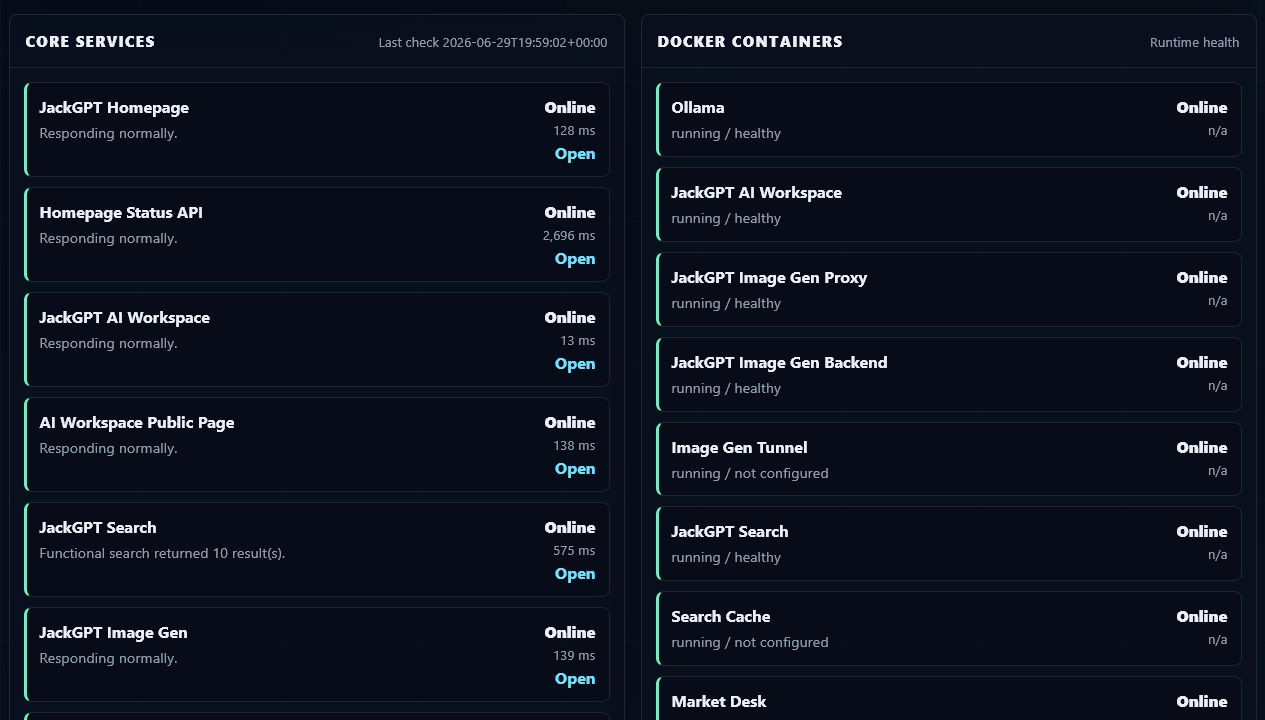
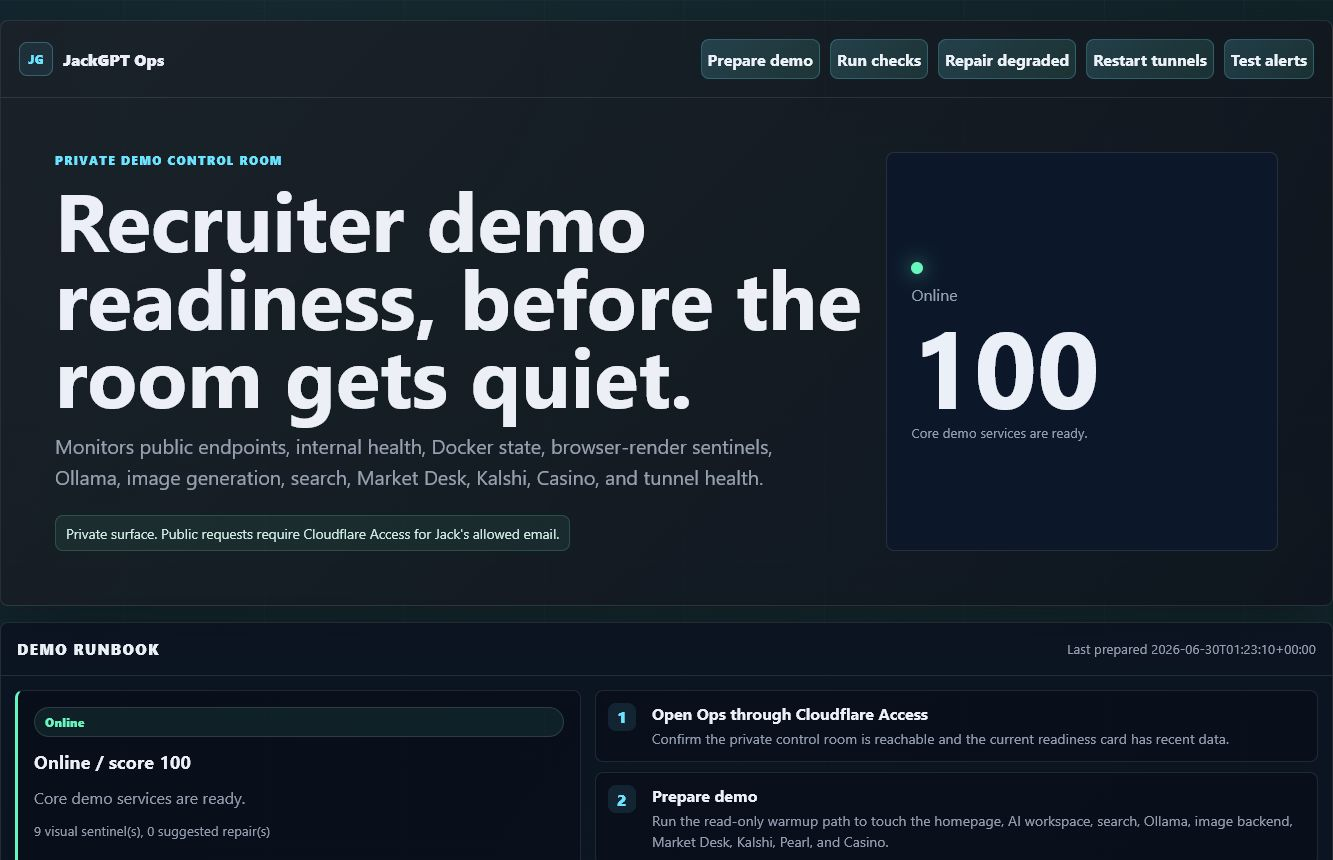
Expand Ops Control Room case study

diff --git a/src/App.jsx b/src/App.jsx
@@ -292,23 +292,26 @@ const projects = [
   {
     id: "ops-control-room",
     name: "JackGPT Ops Control Room",
-    subtitle: "Private demo-readiness monitor with alerts and safe auto-repair",
+    subtitle: "Private demo-readiness, incident memory, alerts, and safe repair controls",
     icon: Activity,
     accent: "blue",
-    tags: ["Monitoring", "Auto-repair", "Docker", "Cloudflare Access", "Alerts", "Browser QA"],
+    tags: ["Monitoring", "Runbooks", "Auto-repair", "Docker", "Cloudflare Access", "Browser QA"],
     summary:
-      "A private operations dashboard that monitors the JackGPT ecosystem, runs browser-render checks, sends alerts, and repairs predictable service failures before a recruiter demo goes sideways.",
+      "A private operations dashboard that monitors the JackGPT ecosystem, warms demo paths, maps dependencies, remembers recurring incidents, sends alerts, and repairs predictable service failures before a recruiter demo goes sideways.",
     description:
-      "JackGPT Ops Control Room is the private reliability layer behind the public portfolio. It watches public URLs, internal health endpoints, Docker containers, Cloudflare tunnels, host-side bot agents, search/image/AI dependencies, and browser-render screenshots. It is intentionally gated behind Cloudflare Access and shown publicly only as a case study, because the live control surface can restart services and coordinate host-side repair actions.",
+      "JackGPT Ops Control Room is the private reliability layer behind the public portfolio. It watches public URLs, internal health endpoints, Docker containers, Cloudflare tunnels, host-side bot agents, search/image/AI dependencies, and browser-render screenshots. It also runs a demo-prep warmup, maintains a service dependency map, and keeps incident memory for recurring failure classes. The live surface is gated behind Cloudflare Access and shown publicly only as a case study, because it can restart services and coordinate host-side repair actions.",
     howItWorks: [
       "A Dockerized FastAPI dashboard polls public endpoints, internal container health, Docker state, selected host-agent signals, and browser-render checks on a recurring schedule.",
+      "A private demo runbook warms critical routes, refreshes visual sentinels, checks Search/Ollama/Image Gen/Market/Kalshi/Pearl/Casino readiness, and returns suggested repairs before a live walkthrough.",
+      "A dependency map rolls up service health across Cloudflare tunnels, OpenWebUI, Ollama, Search, Image Gen, Market Desk, Kalshi, Pearl, host agents, and alert channels.",
       "A private host-agent exposes narrowly scoped repair actions for predictable failures, such as restarting Search, OpenWebUI/Ollama, image generation, Market Desk, tunnels, Kalshi scanner, Moomoo, Salad, Pearl, and other allowlisted services.",
       "Ops sends compact ntfy alerts for repeated failures, degraded dependencies, blank visual checks, and recoveries while keeping alert payloads free of secrets, logs, paths, screenshots, and strategy data.",
       "Cloudflare Access keeps ops.jackgpt.org private, while this homepage case study and GitHub note explain the architecture without exposing credentials or live administrative controls.",
     ],
     developed: [
-      "Built a private control room that gives one-click checks, quick fixes, container status, host-agent health, browser-render screenshots, and demo readiness scoring.",
+      "Built a private control room that gives one-click checks, demo warmups, quick fixes, container status, host-agent health, browser-render screenshots, and demo readiness scoring.",
       "Added automatic repair policy with cooldowns, thresholds, allowlisted targets, and public-safe remediation logs so failures can be fixed without creating restart loops.",
+      "Added incident memory for recurring failures like Search degradation, image-generation GPU contention, WSL/Docker interruptions, Market data fallback, Kalshi heartbeat issues, and Ollama model slowness.",
       "Integrated Search-specific repair logic after repeated upstream-engine degradation, including stable SearXNG defaults and validation that prevents the old broken config from returning.",
       "Separated public status from private operations: recruiters can see live public health on jackgpt.org, while Ops retains the deeper restart, tunnel, and host-control tooling behind Access.",
     ],
@@ -323,7 +326,15 @@ const projects = [
     screenshots: [
       {
         src: "/project-images/ops-control-room/ops-readiness-overview.png",
-        caption: "Private Ops dashboard showing demo readiness, monitored dependency scope, and Cloudflare Access boundary",
+        caption: "Private Ops dashboard showing demo readiness, the guarded Access boundary, and the controls used before recruiter walkthroughs",
+      },
+      {
+        src: "/project-images/ops-control-room/ops-demo-runbook.png",
+        caption: "Demo runbook and warmup checklist for touching critical AI, search, finance, image, and operations paths before a live demo",
+      },
+      {
+        src: "/project-images/ops-control-room/ops-dependency-map.png",
+        caption: "Dependency map and incident memory that connect symptoms to likely failing layers and known recovery protocols",
       },
       {
         src: "/project-images/ops-control-room/ops-repair-matrix.png",

diff --git a/public/code-notes/jackgpt-ops-control-room.md b/public/code-notes/jackgpt-ops-control-room.md
@@ -11,6 +11,8 @@ The live control room is private at `ops.jackgpt.org` behind Cloudflare Access. 
 - Docker container state and healthcheck results.
 - Browser-render checks for blank pages, broken UI, framework overlays, and console errors.
 - Ollama/model-host availability, image-generation backend health, Search result health, Cloudflare tunnel health, and selected host-agent signals.
+- Demo-prep warmups for the recruiter path: homepage, AI Workspace, Ollama, Search, Image Gen, Market Desk, Kalshi, Pearl, and Casino.
+- Dependency rollups for public routes, internal services, host agents, tunnels, alert channels, and GPU-idle guard state.
 
 ## How It Works
 
@@ -21,12 +23,38 @@ flowchart LR
   Docker["Docker socket / container health"] --> Ops
   Browser["Browser render checks"] --> Ops
   Host["Private host-agent"] --> Ops
+  Runbook["Demo warmup runbook"] --> Ops
+  Incidents["Incident memory"] --> Ops
   Ops --> Alerts["ntfy alerts"]
   Ops --> Repairs["Allowlisted repair actions"]
+  Ops --> Map["Dependency map"]
   Repairs --> Services["Restart / repair selected services"]
 ```
 
-The monitor runs inside Docker as a FastAPI service. It keeps a readiness score, current service table, browser screenshot history, alert history, and repair history. A separate private host-agent exposes narrowly scoped repair actions for things that live outside Docker, such as Windows-hosted bot processes or compute services.
+The monitor runs inside Docker as a FastAPI service. It keeps a readiness score, current service table, browser screenshot history, alert history, repair history, demo-prep history, dependency map, and incident memory. A separate private host-agent exposes narrowly scoped repair actions for things that live outside Docker, such as Windows-hosted bot processes or compute services.
+
+## Demo Runbook
+
+Ops includes a read-only `Prepare demo` path. It warms the public and internal routes that are most likely to be used in a recruiter walkthrough, refreshes browser-render sentinels, and returns a short recommended repair queue when a dependency is degraded.
+
+The warmup path intentionally avoids hidden broad restarts. It checks and primes the services, then leaves repair decisions to the explicit allowlisted repair system. This keeps the control room useful before a demo without making surprising state changes.
+
+## Dependency Map
+
+The dependency map groups service health by operational layer:
+
+- Cloudflare tunnels and public routing.
+- Homepage, AI Workspace, Search, Image Gen, Market Desk, Kalshi, Pearl, and support demos.
+- Ollama/model host, SearXNG/Valkey, image backend, and GPU-idle guard.
+- Private host-agent bridge and alert channels.
+
+This makes a failed demo easier to reason about: a public route failure, a container failure, an AI dependency failure, and a host-agent failure are different problems with different recovery paths.
+
+## Incident Memory
+
+Ops keeps a public-safe list of known failure classes and their recovery protocols. Current examples include Search degradation from unreliable upstream engines, image-generation slowness from GPU contention, Docker Desktop/WSL abrupt termination, Market Desk public-data fallback issues, Kalshi scanner heartbeat problems, and Ollama model slowness.
+
+The goal is not just to restart services. The goal is to stop rediscovering the same root causes under demo pressure.
 
 ## Repair Model
 
@@ -65,6 +93,10 @@ Public-safe:
 ## Screenshots
 
 ![Ops readiness overview](../project-images/ops-control-room/ops-readiness-overview.png)
+
+![Ops demo runbook](../project-images/ops-control-room/ops-demo-runbook.png)
+
+![Ops dependency map](../project-images/ops-control-room/ops-dependency-map.png)
 
 ![Ops repair matrix](../project-images/ops-control-room/ops-repair-matrix.png)
 